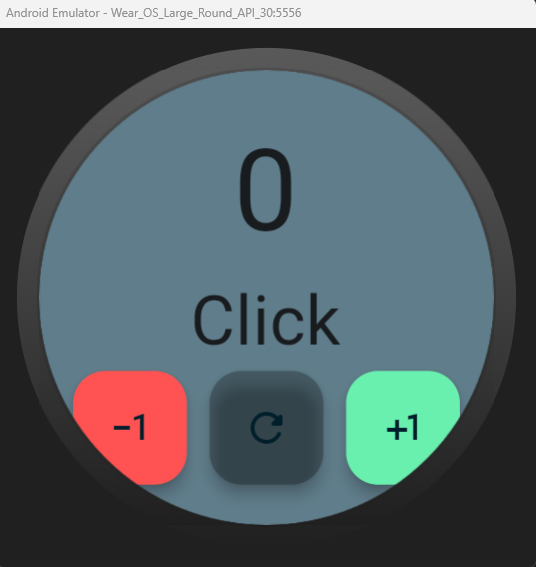
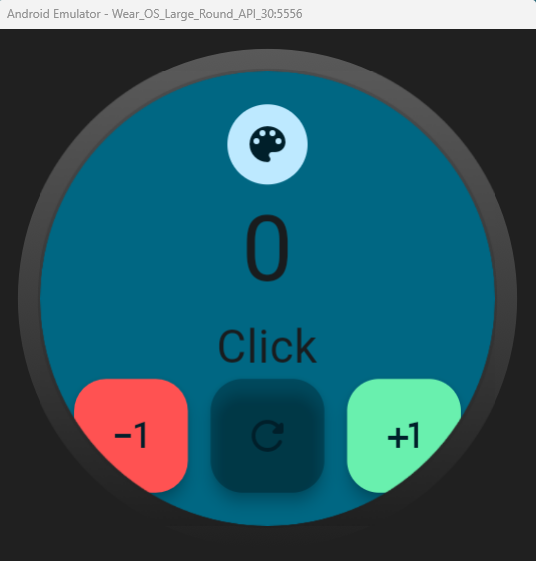
update ThemeProvider

diff --git a/lib/screen/counter_screen.dart b/lib/screen/counter_screen.dart
@@ -1,4 +1,6 @@
 import 'package:flutter/material.dart';
+import 'package:hello_world_app/provider/theme_provider.dart';
+import 'package:provider/provider.dart';
 
 class CounterScreen extends StatefulWidget {
   const CounterScreen({super.key});
@@ -18,23 +20,33 @@ class _CounterScreenState extends State<CounterScreen> {
   @override
   Widget build(BuildContext context) {
     Size size = MediaQuery.of(context).size;
+    final colors = Theme.of(context).colorScheme;
+    final themeProvider = context.watch<ThemeProvider>();
     return Scaffold(
-      backgroundColor: Colors.blueGrey,
+      backgroundColor: colors.primary,
       body: Column(
         mainAxisAlignment: MainAxisAlignment.center,
         crossAxisAlignment: CrossAxisAlignment.center,
         children: [
+          CircleAvatar(
+            child: IconButton(
+              onPressed: () {
+                themeProvider.changeTheme();
+              },
+              icon: const Icon(Icons.color_lens),
+            ),
+          ),
           FittedBox(
             child: Text('$clickCounter',
                 style: TextStyle(
-                  fontSize: calcularSize(size, 0.25),
+                  fontSize: calcularSize(size, 0.2),
                   fontWeight: FontWeight.w400,
                 )),
           ),
           FittedBox(
             child: Text(
               "Click${clickCounter > 0 ? 's' : ''}",
-              style: TextStyle(fontSize: calcularSize(size, 0.15)),
+              style: TextStyle(fontSize: calcularSize(size, 0.1)),
             ),
           ),
           Row(
@@ -82,13 +94,12 @@ class CustomButton extends StatelessWidget {
   final Color color;
   final double? size;
   final VoidCallback onPressed;
-  const CustomButton({
-    super.key,
-    required this.icon,
-    this.color = Colors.black26,
-    required this.onPressed,
-    this.size
-  });
+  const CustomButton(
+      {super.key,
+      required this.icon,
+      this.color = Colors.black26,
+      required this.onPressed,
+      this.size});
   @override
   Widget build(BuildContext context) {
     return SizedBox(

diff --git a/lib/main.dart b/lib/main.dart
@@ -1,8 +1,17 @@
 import 'package:flutter/material.dart';
+import 'package:hello_world_app/provider/theme_provider.dart';
 import 'package:hello_world_app/screen/counter_screen.dart';
+import 'package:provider/provider.dart';
 
 void main() {
-  runApp(const MyApp());
+  runApp(
+    MultiProvider(
+      providers: [
+        ChangeNotifierProvider(create: (_) => ThemeProvider()),
+      ],
+      child: const MyApp(),
+    ),
+  );
 }
 
 class MyApp extends StatelessWidget {
@@ -11,10 +20,7 @@ class MyApp extends StatelessWidget {
   Widget build(BuildContext context) {
     return MaterialApp(
       debugShowCheckedModeBanner: false,
-      theme: ThemeData(
-        useMaterial3: true,
-        colorSchemeSeed: Colors.blueGrey,
-      ),
+      theme: Provider.of<ThemeProvider>(context).theme(),
       home: const SafeArea(child: CounterScreen()),
     );
   }

diff --git a/lib/provider/theme_provider.dart b/lib/provider/theme_provider.dart
@@ -1,0 +1,30 @@
+import 'package:flutter/material.dart';
+
+const List<Color> _colorThemes = [
+  Colors.blueGrey,
+  Colors.blue,
+  Colors.teal,
+  Colors.green,
+  Colors.yellow,
+  Colors.orange,
+  Colors.pink,
+];
+
+class ThemeProvider extends ChangeNotifier {
+  int selectedColor = 0;
+  ThemeData themeData = ThemeData();
+  void changeTheme(){
+    selectedColor +=1;
+    if(selectedColor>6){
+      selectedColor=0;
+    }
+    notifyListeners();
+  }
+  ThemeData theme() {
+    return ThemeData(
+      useMaterial3: true,
+      colorSchemeSeed: _colorThemes[selectedColor],
+      // brightness: Brightness.dark,
+    );
+  }
+}
